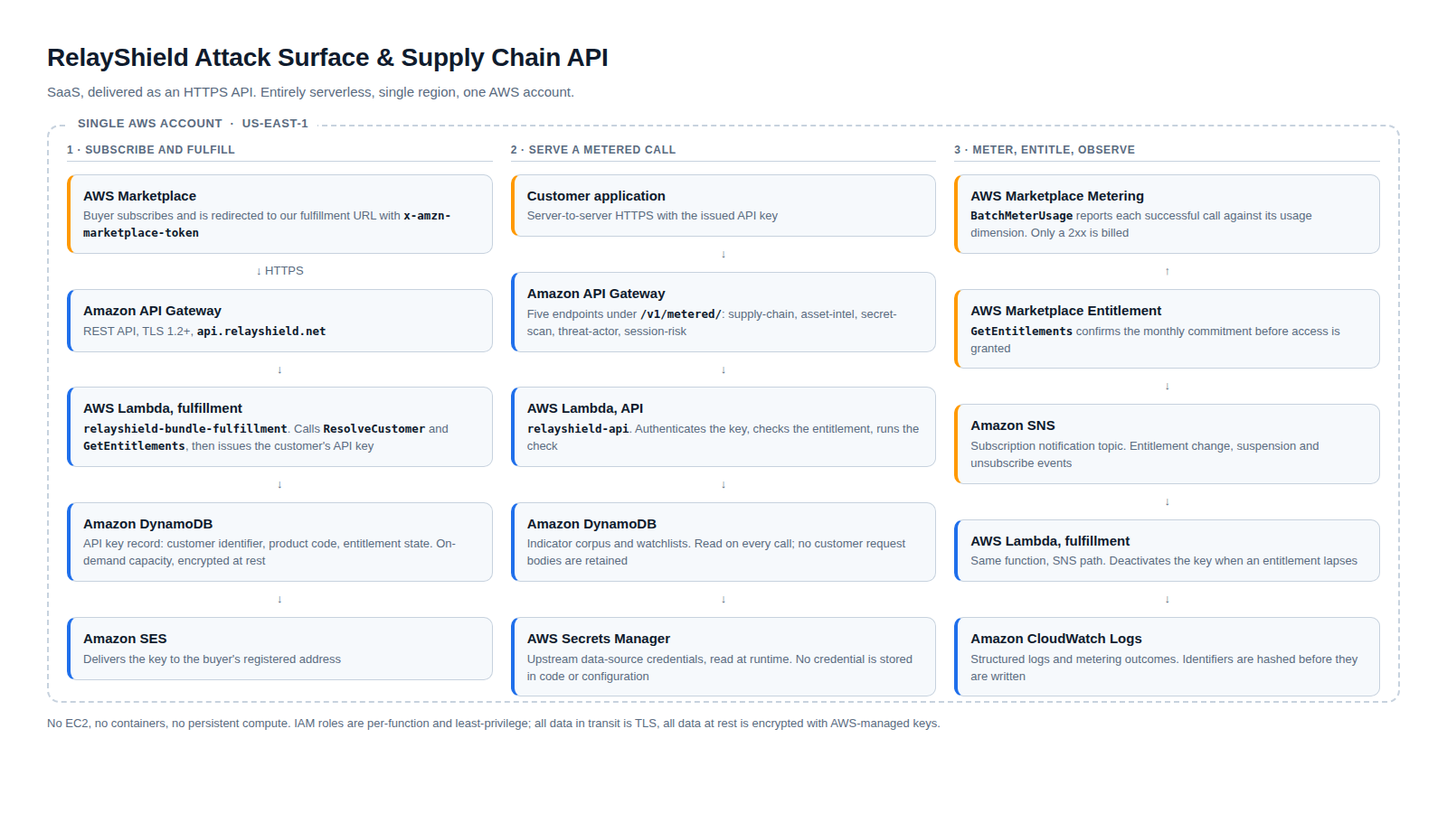
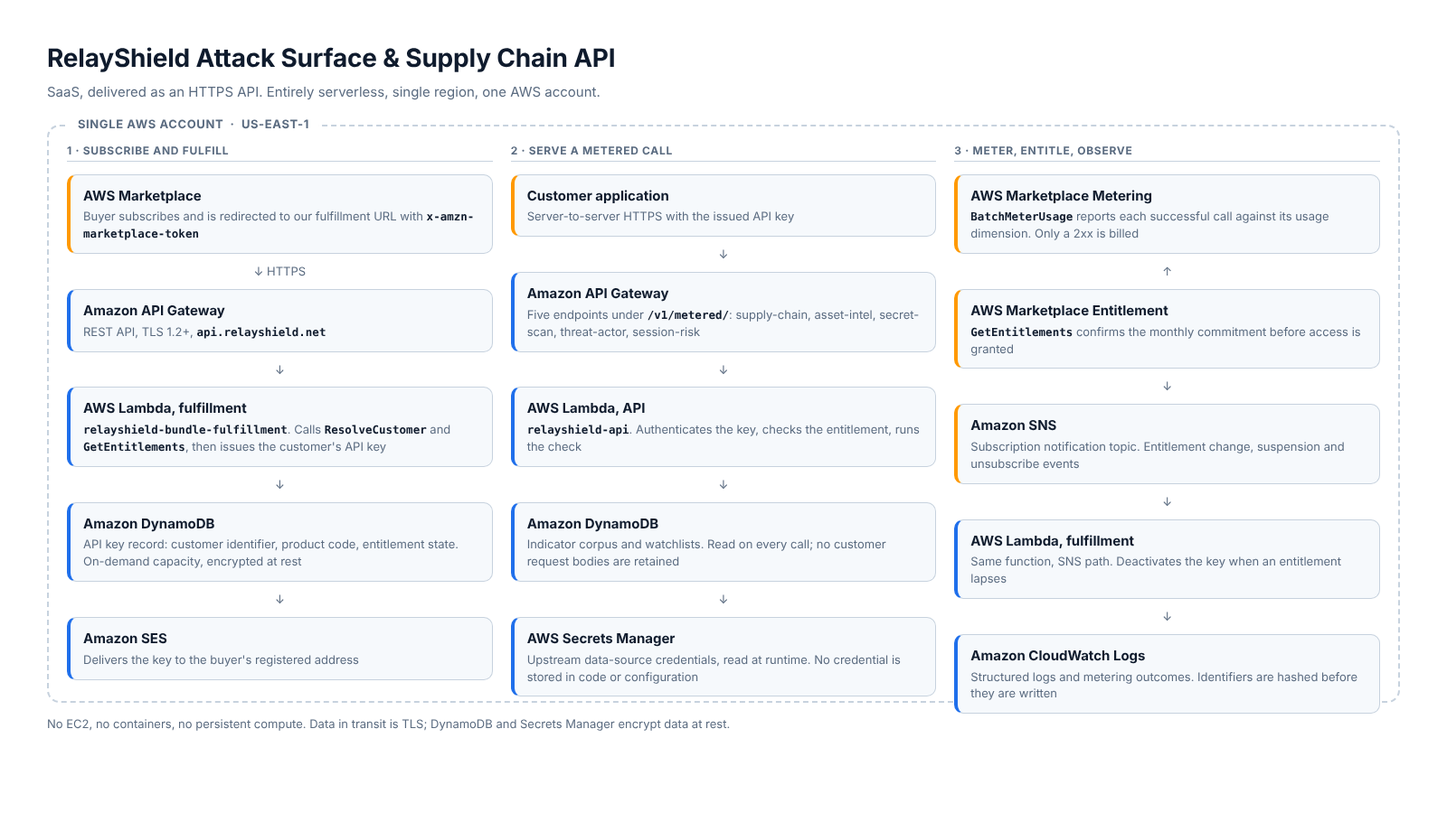
Prepare the AWS FTR: architecture diagram, finish list, corrected overclaims
Adds the architecture diagram for the FTR product (every box read from code, outside-AWS
components shown, unverifiable claims omitted), the ordered finish list with the nine
WAFR Notes that went stale, and a draft email to the AWS contact.

Fixes a real defect found on the way: the Bundle B architecture description and diagram
footer claimed per-function least-privilege IAM roles, AWS-managed keys and hashed
identifiers in logs. None is true. Nothing had been submitted with them. Corrected and
re-rendered; no other customer-facing surface carries the claim.

Records Andrew's corrections: Twilio is settled (SIM swap cadence hourly to 12 hours),
Shopify is waiting on the App Store.

Claude-Session: https://claude.ai/code/session_01Tx1L2QAH4g3Q9BTXW1vcxL

diff --git a/assets/marketplace/consumption_security_architecture.html b/assets/marketplace/consumption_security_architecture.html
@@ -1,0 +1,109 @@
+<!doctype html>
+<!--
+  AWS Marketplace / Partner Central architecture diagram for the FTR.
+  Product: RelayShield - Consumption Security API Bundles (prod-kkvurtspreofy).
+
+  Render it, never edit the PNG:
+
+    chromium --headless --no-sandbox --disable-gpu --hide-scrollbars \
+      --window-size=1600,900 \
+      --screenshot=assets/marketplace/consumption_security_architecture.png \
+      "file://$PWD/assets/marketplace/consumption_security_architecture.html"
+
+  Every box is read from code, not recalled:
+    fulfillment      relayshield_bundle_fulfillment.py (ResolveCustomer, GetEntitlements, SES)
+    metering         relayshield_api.py and relayshield_agentic_api.py (BatchMeterUsage at the point of use)
+    MCP endpoint     hf-space-mcp-server/app.py (forwards to api.relayshield.net)
+    edge             wrangler.commerce.toml: api.relayshield.net points directly to API Gateway
+
+  DELIBERATELY ABSENT, because they could not be verified:
+    * Amazon SNS. The fulfillment module says SNS events do not arrive until the
+      subscription is created with this product's real topic ARN. Add it only after
+      `aws sns list-subscriptions` shows it.
+    * Any claim about per-function IAM roles, key types or log redaction. Dozens of
+      Lambdas still share one role, and a reviewer will check.
+    * Third-party vendor names (house rule for anything a customer reads), the AWS
+      account number, and any corpus count (MEASUREMENT DOCTRINE).
+  No em-dashes: house style.
+
+  The PNG is TRACKED (.gitignore carries !assets/marketplace/*.png): an image sent
+  through chat arrives re-encoded as .webp, which an upload dialog filters out.
+-->
+<meta charset="utf-8">
+<title>RelayShield Consumption Security API Bundles - architecture</title>
+<style>
+  :root{--ink:#0f1b2d;--mut:#5a6b80;--line:#c7d2de;--bg:#fff;--aws:#ff9900;--rs:#1f6feb;--ext:#8a94a3;--box:#f6f9fc}
+  *{box-sizing:border-box;margin:0;padding:0}
+  body{width:1600px;height:900px;background:var(--bg);
+       font:400 15px/1.4 -apple-system,BlinkMacSystemFont,"Segoe UI",Helvetica,Arial,sans-serif;
+       color:var(--ink);padding:30px 48px}
+  h1{font-size:26px;font-weight:700;letter-spacing:-.2px}
+  .sub{color:var(--mut);font-size:14px;margin-top:4px}
+  .region{margin-top:20px;border:2px dashed var(--line);border-radius:14px;padding:16px 18px 14px;position:relative;height:536px}
+  .region>.tag,.outside>.tag{position:absolute;top:-12px;left:22px;background:var(--bg);padding:0 10px;
+        font-size:12px;font-weight:700;color:var(--mut);letter-spacing:.6px;text-transform:uppercase}
+  .cols{display:grid;grid-template-columns:1fr 1fr 1fr;gap:20px;height:100%}
+  .col{display:flex;flex-direction:column;gap:7px}
+  .lane{font-size:12px;font-weight:700;color:var(--mut);letter-spacing:.7px;text-transform:uppercase;
+        padding-bottom:2px;border-bottom:1px solid var(--line)}
+  .box{border:1px solid var(--line);border-radius:10px;background:var(--box);padding:8px 12px}
+  .box.aws{border-left:4px solid var(--aws)} .box.rs{border-left:4px solid var(--rs)}
+  .box b{display:block;font-size:14px;font-weight:700} .box span{display:block;font-size:12.5px;color:var(--mut);margin-top:2px}
+  .arrow{font-size:12px;color:var(--mut);text-align:center;line-height:1}
+  .outside{margin-top:22px;border:2px dashed var(--ext);border-radius:14px;padding:16px 18px 14px;position:relative;
+           display:grid;grid-template-columns:1fr 1fr 1fr;gap:20px}
+  .box.ext{border-left:4px solid var(--ext);background:#fafbfc}
+  .foot{margin-top:10px;font-size:12.5px;color:var(--mut)}
+  code{font:600 11.5px ui-monospace,SFMono-Regular,Menlo,monospace;color:var(--ink)}
+</style>
+<h1>RelayShield Consumption Security API Bundles</h1>
+<div class="sub">SaaS, delivered as an HTTPS API and as an MCP endpoint. The API, the data and the billing run on AWS in one region (us-east-1) and one account.</div>
+
+<div class="region"><span class="tag">Single AWS account &nbsp;&middot;&nbsp; us-east-1</span>
+<div class="cols">
+
+  <div class="col">
+    <div class="lane">1 &middot; Subscribe and fulfill</div>
+    <div class="box aws"><b>AWS Marketplace</b><span>Buyer subscribes and is redirected to our fulfillment URL with the registration token</span></div>
+    <div class="arrow">&#8595; HTTPS</div>
+    <div class="box rs"><b>Amazon API Gateway</b><span>REST API behind <code>api.relayshield.net</code>, TLS</span></div>
+    <div class="arrow">&#8595;</div>
+    <div class="box rs"><b>AWS Lambda, fulfillment</b><span>Calls <code>ResolveCustomer</code> and <code>GetEntitlements</code>, then issues the customer's API key</span></div>
+    <div class="arrow">&#8595;</div>
+    <div class="box rs"><b>Amazon DynamoDB</b><span>Key record: customer identifier, product code, entitlement state. On-demand capacity</span></div>
+    <div class="arrow">&#8595;</div>
+    <div class="box rs"><b>Amazon SES</b><span>Delivers the key to the buyer's registered address</span></div>
+  </div>
+
+  <div class="col">
+    <div class="lane">2 &middot; Serve a call</div>
+    <div class="box aws"><b>Customer application or AI agent</b><span>HTTPS with the issued API key, directly or through the MCP endpoint (below)</span></div>
+    <div class="arrow">&#8595; HTTPS</div>
+    <div class="box rs"><b>Amazon API Gateway</b><span>Metered endpoints under <code>/v1/metered/</code>: MCP and agent screening, identity risk, tech-stack CVE, LLM credential exposure</span></div>
+    <div class="arrow">&#8595;</div>
+    <div class="box rs"><b>AWS Lambda, API functions</b><span>Authenticate the key, confirm the entitlement, run the check</span></div>
+    <div class="arrow">&#8595; &#8593;</div>
+    <div class="box rs"><b>Amazon DynamoDB</b><span>Indicator corpus, key records, usage counters</span></div>
+    <div class="arrow">&#8595;</div>
+    <div class="box rs"><b>AWS Secrets Manager</b><span>Upstream data-source credentials, read at runtime</span></div>
+  </div>
+
+  <div class="col">
+    <div class="lane">3 &middot; Meter, collect, observe</div>
+    <div class="box aws"><b>AWS Marketplace Metering</b><span><code>BatchMeterUsage</code> is called by the API functions at the point of use, once per call, against the usage dimension</span></div>
+    <div class="arrow">&nbsp;</div>
+    <div class="box aws"><b>AWS Marketplace Entitlement</b><span><code>GetEntitlements</code> confirms the monthly entitlement during fulfillment</span></div>
+    <div class="arrow">&nbsp;</div>
+    <div class="box rs"><b>Amazon EventBridge &rarr; AWS Lambda collectors</b><span>Scheduled functions refresh the indicator corpus in DynamoDB from public feeds and monitored sources</span></div>
+    <div class="arrow">&#8595;</div>
+    <div class="box rs"><b>Amazon CloudWatch</b><span>Logs from every function. Error alarms on selected functions</span></div>
+  </div>
+
+</div></div>
+
+<div class="outside"><span class="tag">Outside AWS &nbsp;&middot;&nbsp; shown so the boundary is explicit</span>
+  <div class="box ext"><b>Hugging Face Space, optional MCP endpoint</b><span>A thin proxy: forwards each MCP tool call to <code>api.relayshield.net</code>. The checks, the data and the billing are in AWS</span></div>
+  <div class="box ext"><b>Cloudflare Workers, public web pages</b><span>Marketing, documentation and pricing pages. API traffic does not pass through them</span></div>
+  <div class="box ext"><b>Third-party data providers</b><span>Queried over HTTPS by some endpoints for enrichment. Their credentials are held in AWS Secrets Manager</span></div>
+</div>
+<div class="foot">Compute is AWS Lambda. DynamoDB tables use on-demand capacity. Metered calls are authenticated by API key.</div>

diff --git a/assets/marketplace/bundle_b_architecture.html b/assets/marketplace/bundle_b_architecture.html
@@ -97,4 +97,4 @@
 
 </div>
 </div>
-<div class="foot">No EC2, no containers, no persistent compute. IAM roles are per-function and least-privilege; all data in transit is TLS, all data at rest is encrypted with AWS-managed keys.</div>
+<div class="foot">No EC2, no containers, no persistent compute. Data in transit is TLS; DynamoDB and Secrets Manager encrypt data at rest.</div>

diff --git a/ftr_finish_2026-10-18.md b/ftr_finish_2026-10-18.md
@@ -1,0 +1,180 @@
+# AWS FTR: finish list, 2026-10-18
+
+Solution `soln-aicwx4eiyofnm` ("RS Agentic Attack Surface API"), linked to product `prod-kkvurtspreofy`.
+Workload "RelayShield API", Production, us-east-1, account 239677749008, Framework lens, 57 questions.
+
+**What this file is.** The saved answer sheets (`wafr_answers_reliability_2026-10-11.md`,
+`wafr_answers_perf_cost_sus_2026-10-12.md`) were written before several facts changed. This lists
+only what has to change in the console, in order, and what Andrew has to read back. Nothing here was
+checked against AWS from the container, which has no credentials; every AWS fact below comes from
+Andrew's own output recorded in `docs/claude_memory/LOG_CURRENT.md` and its archive.
+
+---
+
+## 1. Read four things first, so the Notes below are true when pasted
+
+The block is in the chat reply. A Note that states a fact the reviewer can check and that is not true
+is what fails an FTR, so these come before any edit.
+
+| Read | Must be | If it is not |
+|---|---|---|
+| Lambda account concurrent executions | `1000` | Do not paste the REL 1, REL 7, REL 10, PERF 2, PERF 5 or COST 9 updates below. Keep the old Notes and tell me what it printed. |
+| Budget `relayshield-monthly-cost` limit | any amount | If missing, the COST 1 sentence about a budget must stay out. |
+| EventBridge rule `relayshield-sim-swap-monitor-schedule` | `rate(12 hours)` | If not, the SUS 3 and COST 1 "twelve-hourly" sentences stay out. |
+| SNS subscriptions whose endpoint contains `bundle-fulfillment` | a topic ARN and `lambda`, or nothing | Nothing is a valid answer and means the diagram correctly omits SNS. A row means add the box (section 6). |
+
+(The SIM swap schedule is recorded as applied on 2026-10-12 and Andrew confirmed the twelve-hour
+cadence is what resolved the Twilio spend. The read is to make the Note's source a fresh output rather
+than a memory.)
+
+## 2. Find the one unanswered question
+
+Well-Architected Tool, workload "RelayShield API", **Overview**. Each pillar row shows answered
+over total. The totals are OPS 11, SEC 11, REL 13, PERF 5, COST 11, SUS 6 = 57. **The pillar whose
+answered count is one short holds it**; open that pillar and the unanswered question has no
+selection. The container cannot see the console, so this one is Andrew's read.
+
+* If it is in **REL, PERF, COST or SUS**, its answer is already written in the two sheets above.
+* If it is in **OPS or SEC**, those answers were given in chat and were not saved. Send me the
+  question's number and its text, and I will draft it from the repository and the evidence reads.
+
+## 3. Notes that changed
+
+Paste each over the existing Notes for that question. Each is under the console's 2,084-character
+limit. Only after the first read prints `1000`.
+
+**REL 1, Notes**
+
+> The account's Lambda concurrent-execution limit was 10, and observed peak concurrency in a 7-day
+> window reached 10, with 427 throttled invocations. AWS approved an increase to 1,000 on
+> 2026-10-12. Reserved concurrency per function and a CloudWatch alarm on throttles and on
+> concurrency as a share of the limit are the next steps and are not yet in place. Other quotas are
+> not yet monitored.
+
+**REL 7, Notes**
+
+> Scaling is automatic. The Lambda concurrency limit that previously capped it (10) was raised to
+> 1,000 on 2026-10-12. No load test has been performed; a baseline load test is planned.
+
+*Tick change, mine to be overruled:* tick "Obtain resources upon detection that more resources are
+needed" only if the first read printed `1000`. The reviewer will ask for evidence, and the evidence is the
+Lambda throttles metric for the days since 2026-10-12 showing none.
+
+**REL 8, Notes**
+
+> Deployments are automated through GitHub Actions with change detection and OIDC credentials, and a
+> post-deploy import probe that fails the run on any Lambda runtime initialisation error. In October
+> the public API function had two initialisation outages caused by bad deployment packages: a syntax
+> error on 5 October that the probe did not then recognise (the probe has since been corrected and a
+> compile test for every source file added), and a package missing a module on 11 October, believed
+> to be a manual deployment outside the pipeline. Manual deployments still bypass the pipeline and
+> no alarm covered the API function. The test suite is not yet run in CI and there are no versions
+> or aliases to roll back to. Alarming the API function, running the suite in CI and publishing
+> versions behind an alias are planned.
+
+**REL 10, Notes**
+
+> Single Region, multi-AZ through managed services. No function has reserved concurrency, so a
+> background job can still consume the shared pool that serves the public API. The account limit was
+> raised to 1,000 on 2026-10-12, so reserved concurrency can now be set; setting it for the public API
+> function is the next step. Leave the bulkhead practice unticked until it is done.
+
+**PERF 2, Notes**
+
+> 61 Lambda functions at 128 MB to 1,024 MB with timeouts from 3 to 900 seconds; all x86_64. Memory
+> and timeouts were set when each function was created and have not been right-sized against
+> measured duration. Graviton (arm64) has not been evaluated. The account concurrency quota, which
+> was the binding constraint at 10, was raised to 1,000 on 2026-10-12. A right-sizing pass and an
+> arm64 trial on the highest-volume functions are planned.
+
+**PERF 5, Notes**
+
+> Runtimes and dependencies are kept current. Performance KPIs, tracing, load testing and a
+> performance-improvement process do not exist yet. The first findings from measurement were a high
+> error rate on the public API, which proved to be two function-initialisation outages caused by bad
+> deployment packages (see REL 8), and 427 throttles in seven days under the previous concurrency
+> limit of 10, since raised to 1,000. A baseline load test is planned.
+
+**COST 9, Notes**
+
+> Demand is throttled in layers: API Gateway usage plan, per-key hourly and per-source daily caps,
+> and a daily budget on the shared upstream key. Supply is dynamic and was capped by an account
+> concurrency quota of 10, raised to 1,000 on 2026-10-12.
+
+**SUS 3, Notes** (only if the third read printed `rate(12 hours)`)
+
+> Background work is scheduled rather than polled, and caches avoid repeating expensive upstream calls.
+> A review of scheduled-job frequency found one running twelve times more often than needed (hourly,
+> against a twelve-hour cadence that sees the same events), now corrected. Low-use components have not
+> been systematically reviewed and code has not been profiled.
+
+**COST 1:** no text change. The budget sentence in the saved sheet is now true if the second read printed a
+limit. Andrew's target was USD 10 and the last recorded limit was USD 50, so re-running
+`create_cost_budget.sh` with its default lowers it; do that if the print shows 50.
+
+## 4. The remaining High risks
+
+Do not chase the count to zero. Unticked practices become flagged risks by design, and the saved
+answers keep every unticked practice unticked on purpose, because an overclaim is what an FTR
+reviewer catches. The test for each remaining High risk is that its Notes names a concrete plan, as
+the sheets do. **UNVERIFIED:** whether unresolved High risks block approval. The FTR Guide in
+Partner Central is the authority; I could not read it from the container. If it names a checklist
+item you cannot answer, send me the item.
+
+## 5. Save the report, then request validation
+
+1. **Save milestone**, then **Generate report**. The PDF must be under 3 MB.
+2. **Partner Central, solution `soln-aicwx4eiyofnm`, Validation tab, Request validation.** Reported
+   prerequisites, from secondary sources and not yet confirmed against AWS's page: the solution links
+   exactly one software product (it does), and a WAFR report as the evidence upload.
+3. **Do not click "Update visibility" on the older four-product solution.**
+
+## 6. The architecture diagram for this product
+
+`assets/marketplace/consumption_security_architecture.png` (1600 x 900), generated from the
+`.html` beside it, so a correction is an edit and a re-render. It reaches the Mac through the merge,
+not through chat, which re-encodes images to `.webp` and an upload dialog then cannot select them.
+
+It names the product by its listing name, shows the Hugging Face MCP endpoint and Cloudflare as
+**outside AWS** rather than hiding them, and **deliberately omits** three things:
+* **Amazon SNS.** The fulfillment module says SNS events do not arrive until a subscription exists
+  with this product's real topic ARN, and nothing records that it does. If Andrew's read shows the
+  fulfillment function is subscribed, add the box and re-render.
+* **Any claim about per-function IAM roles, key types or log redaction.** Dozens of Lambdas still
+  share one role, and some handlers log values readably.
+* **Vendor names, the account number and corpus counts.**
+
+**The earlier Bundle B description and diagram footer made those claims and have been corrected.**
+Nothing had been submitted with them: the Bundle B form was a single radio button.
+
+**Still unread and it matters:** this product's own *Architecture details* tab in the Marketplace
+Management Portal. For Bundle B the honest answer was "None of the above", which the form says is
+"not considered deployed on AWS", because endpoints depend on third-party data providers. If this
+product's tab says the same and the FTR needs an "AWS-hosted" product, that is the one thing that
+could stop validation, and it is better found now than after the request. Read it and tell me what
+it says; **do not change it in the same sitting.**
+
+## 7. Email to Dave Shapiro, after the validation request is submitted
+
+Draft. Send only after step 5, and replace the bracketed date.
+
+> Subject: RelayShield: FTR validation requested, and a question on co-sell
+>
+> Dave, following your note that onboarding is self-service for early-stage partners: we are
+> enrolled in the Software Path and have completed a Well-Architected review for our API workload
+> (report attached). We requested Foundational Technical Review validation on solution
+> soln-aicwx4eiyofnm on [date], linked to our public Marketplace product prod-kkvurtspreofy.
+>
+> One question: who owns co-sell and ACE onboarding for early-stage ISVs, and is there a partner
+> development manager we should be introduced to once validation completes?
+>
+> Andrew Gibbs, RelayShield
+
+Ask who owns co-sell, not for a person by name, as agreed.
+
+## 8. What to send back
+
+1. The output of the four reads in section 1.
+2. The pillar and number of the unanswered question (and the question text if it is OPS or SEC).
+3. What this product's Architecture details tab currently says.
+4. Any FTR checklist item you cannot answer.

diff --git a/docs/claude_memory/LOG_CURRENT.md b/docs/claude_memory/LOG_CURRENT.md
@@ -563,3 +563,52 @@ The x401 announcement pack, `tools/grant_verifier_table_access.py` and the Shopi
 `origin/main`. The 10-17 item "merge and push the branch's unmerged pieces" is closed. Still open from 10-17,
 unchanged: the Shopify review email, the tag-and-note write proof, the "deprecated offline token" banner,
 x401 `VERIFIER_NONCE_TABLE`, the Proof form and the Muse summary.
+
+## WHERE 2026-10-18 (SECOND SESSION) LEFT THINGS. THE FTR IS READY FOR ANDREW'S CONSOLE STEPS; THREE CORRECTIONS FROM HIM.
+
+**Andrew merged the split cleanly (fast-forward, `OK` on the size check, 18 tests).** Branch
+`claude/bold-goldberg-9m0c9b`, new commits unmerged.
+
+### Corrections from Andrew, recorded as he gave them (not independently verified)
+
+* **TWILIO IS SETTLED. The "1,407 calls in an hour" thread above is closed, and the 10-12 advice to rotate the auth token
+  is withdrawn.** He says a recent session traced the spend to the SIM swap check frequency, and the cadence went from
+  hourly to once every 12 hours (the schedule rule reads `rate(12 hours)`, confirmed in the 10-12 record). My 10-18
+  summary listed Twilio as open because I read the stale 10-12 text, which is the "a doc recording an open item is a
+  lead, not a fact" rule in the direction it is least expected.
+* **Shopify: nothing to do.** The app is submitted and waiting on the App Store. The tag-and-note proof and the banner
+  both depend on the response, so they stay parked.
+* **AWS FTR: "finish now".**
+
+### What was built for the FTR (commit follows this entry)
+
+* `assets/marketplace/consumption_security_architecture.{html,png}`: the architecture diagram for
+  `prod-kkvurtspreofy`, named by its listing name so no internal bundle name appears in an upload. Every box is read
+  from code (`relayshield_bundle_fulfillment.py`, the metering calls in `relayshield_api.py` and
+  `relayshield_agentic_api.py`, `hf-space-mcp-server/app.py`). It shows the Hugging Face MCP endpoint, Cloudflare and the
+  data providers as OUTSIDE AWS. **Omitted deliberately: SNS** (the fulfillment module says events do not arrive until
+  the subscription exists with this product's real topic ARN, and nothing records that), per-function IAM roles, key
+  types, log redaction, vendor names, account number, counts.
+* **A real defect found and fixed on the way:** the Bundle B architecture description and diagram footer claimed
+  "every Lambda runs under its own least-privilege IAM role", "AWS-managed keys" and "identifiers hashed before they are
+  written". All three are untrue (dozens of Lambdas share one role, two customer-managed KMS keys exist, some handlers log
+  values readably). Nothing had been submitted with them, because the Bundle B form was one radio button. Corrected in
+  `bundle_b_architecture_details_2026-09-20.md` and the Bundle B diagram was re-rendered. No other customer-facing
+  surface carries the claim (grepped).
+* `ftr_finish_2026-10-18.md`: the ordered finish list, the nine Notes that went stale (concurrency 10 to 1,000, the
+  October init outages, the twelve-hour cadence), a Dave Shapiro email draft, and what Andrew sends back.
+
+### Needed from Andrew, in this order
+
+1. The four read-only AWS outputs (account concurrency, budget limit, SIM swap schedule, SNS subscriptions on
+   `bundle-fulfillment`). Every Note that cites a number waits on them.
+2. The pillar and number of the one unanswered WAFR question. All 57 have drafted answers, so which one is open cannot be
+   told from the repository. The OPS and SEC answers were given in chat and not saved.
+3. What THIS product's Architecture details tab in the Marketplace Management Portal currently says. For Bundle B the
+   honest answer was "None of the above" (not considered deployed on AWS) because endpoints depend on third-party data
+   providers. If the FTR needs an AWS-hosted product, that is the one thing that could stop validation. Read it, do not
+   change it in the same sitting.
+4. Any FTR checklist item he cannot answer. The FTR Guide is egress-blocked from the container and has never been read.
+
+**Unchanged and still open:** the root access key (ends `N2XZ`) deletion, due on or after 2026-10-16; API alarm; badge
+table; x401 `VERIFIER_NONCE_TABLE`, Proof form and Muse summary; CS Mobile v1.7.0 behind a missing JDK.

diff --git a/bundle_b_architecture_details_2026-09-20.md b/bundle_b_architecture_details_2026-09-20.md
@@ -83,6 +83,15 @@ not something to print on a public product page.
 
 ## 2. Architecture description
 
+**CORRECTED 2026-10-18. Three sentences were removed because they were not true, and a reviewer
+checks exactly this kind of claim.** (1) "Every AWS Lambda function runs under its own
+least-privilege IAM role": dozens of functions still share one console-generated role, and only a
+few have been split onto their own. (2) "encrypted with AWS-managed keys": two customer-managed KMS
+keys exist and are used for some tables. (3) "Customer request bodies are not retained" and
+"identifiers hashed before they are written": some handlers log values readably, so that is a
+claim to make only after the logging has been audited. The diagram footer made the first two claims
+as well and was re-rendered. Nothing here was submitted: the form turned out to be one radio button.
+
 Paste this into the description field. It is written to be readable as one block if the form has a
 single box, and it splits cleanly at the headings if it has several.
 
@@ -114,11 +123,9 @@ single box, and it splits cleanly at the headings if it has several.
 > entitlement changes, suspension and unsubscription. The same fulfillment Lambda function
 > consumes them and deactivates the customer's key when an entitlement lapses.
 >
-> **Security and operations.** Every AWS Lambda function runs under its own least-privilege IAM
-> role. All data in transit uses TLS 1.2 or later. All data at rest in DynamoDB and Secrets
-> Manager is encrypted with AWS-managed keys. Customer request bodies are not retained; operational
-> logs go to Amazon CloudWatch Logs with identifiers hashed before they are written. Availability
-> and scaling come from the managed services themselves, with no instances to patch or scale.
+> **Security and operations.** All data in transit uses TLS. DynamoDB and Secrets Manager encrypt
+> data at rest. Operational logs go to Amazon CloudWatch Logs. Availability and scaling come from
+> the managed services themselves, with no instances to patch or scale.
 
 **Services named, if the form asks for a list rather than prose:** Amazon API Gateway, AWS Lambda,
 Amazon DynamoDB, AWS Secrets Manager, Amazon SNS, Amazon SES, Amazon CloudWatch Logs, AWS Identity

diff --git a/docs/claude_memory/INDEX.md b/docs/claude_memory/INDEX.md
@@ -41,6 +41,7 @@ LOG_CURRENT.md:295  2026-10-16 (later still): THE GRANT TOOL REPORTED A GRANTED 
 LOG_CURRENT.md:318  WHERE 2026-10-17 LEFT THINGS. TWO THREADS: x401 IS DEPLOYED BUT TRUSTS NOBODY, AND THE SHOPIFY CHECK IS STILL PENDING.
 LOG_CURRENT.md:404  WHERE 2026-10-17 (SECOND SESSION) LEFT THINGS. THE SHOPIFY APP IS SUBMITTED FOR REVIEW.
 LOG_CURRENT.md:513  WHERE 2026-10-18 LEFT THINGS. THE DRIFT CHECK NO LONGER CRIES WOLF, AND CLAUDE.md IS SPLIT SO IT CAN BE READ.
+LOG_CURRENT.md:567  WHERE 2026-10-18 (SECOND SESSION) LEFT THINGS. THE FTR IS READY FOR ANDREW'S CONSOLE STEPS; THREE CORRECTIONS FROM HIM.
 archive_01.md:4  THE PAGE IS INSIDE A TEMPLATE LITERAL, SO EVERY BACKSLASH IS EATEN ONCE. THIS SHIPPED A DEAD APP.
 archive_01.md:78  THE MINI APP HAS NO CONSOLE, SO EVERY JS FAILURE LOOKS IDENTICAL. IT REPORTS ITSELF NOW.
 archive_01.md:105  THE THIRD RUNTIME-DEAD DEFECT IN TWO DAYS, AND IT WAS IN THE FIX FOR THE SECOND
